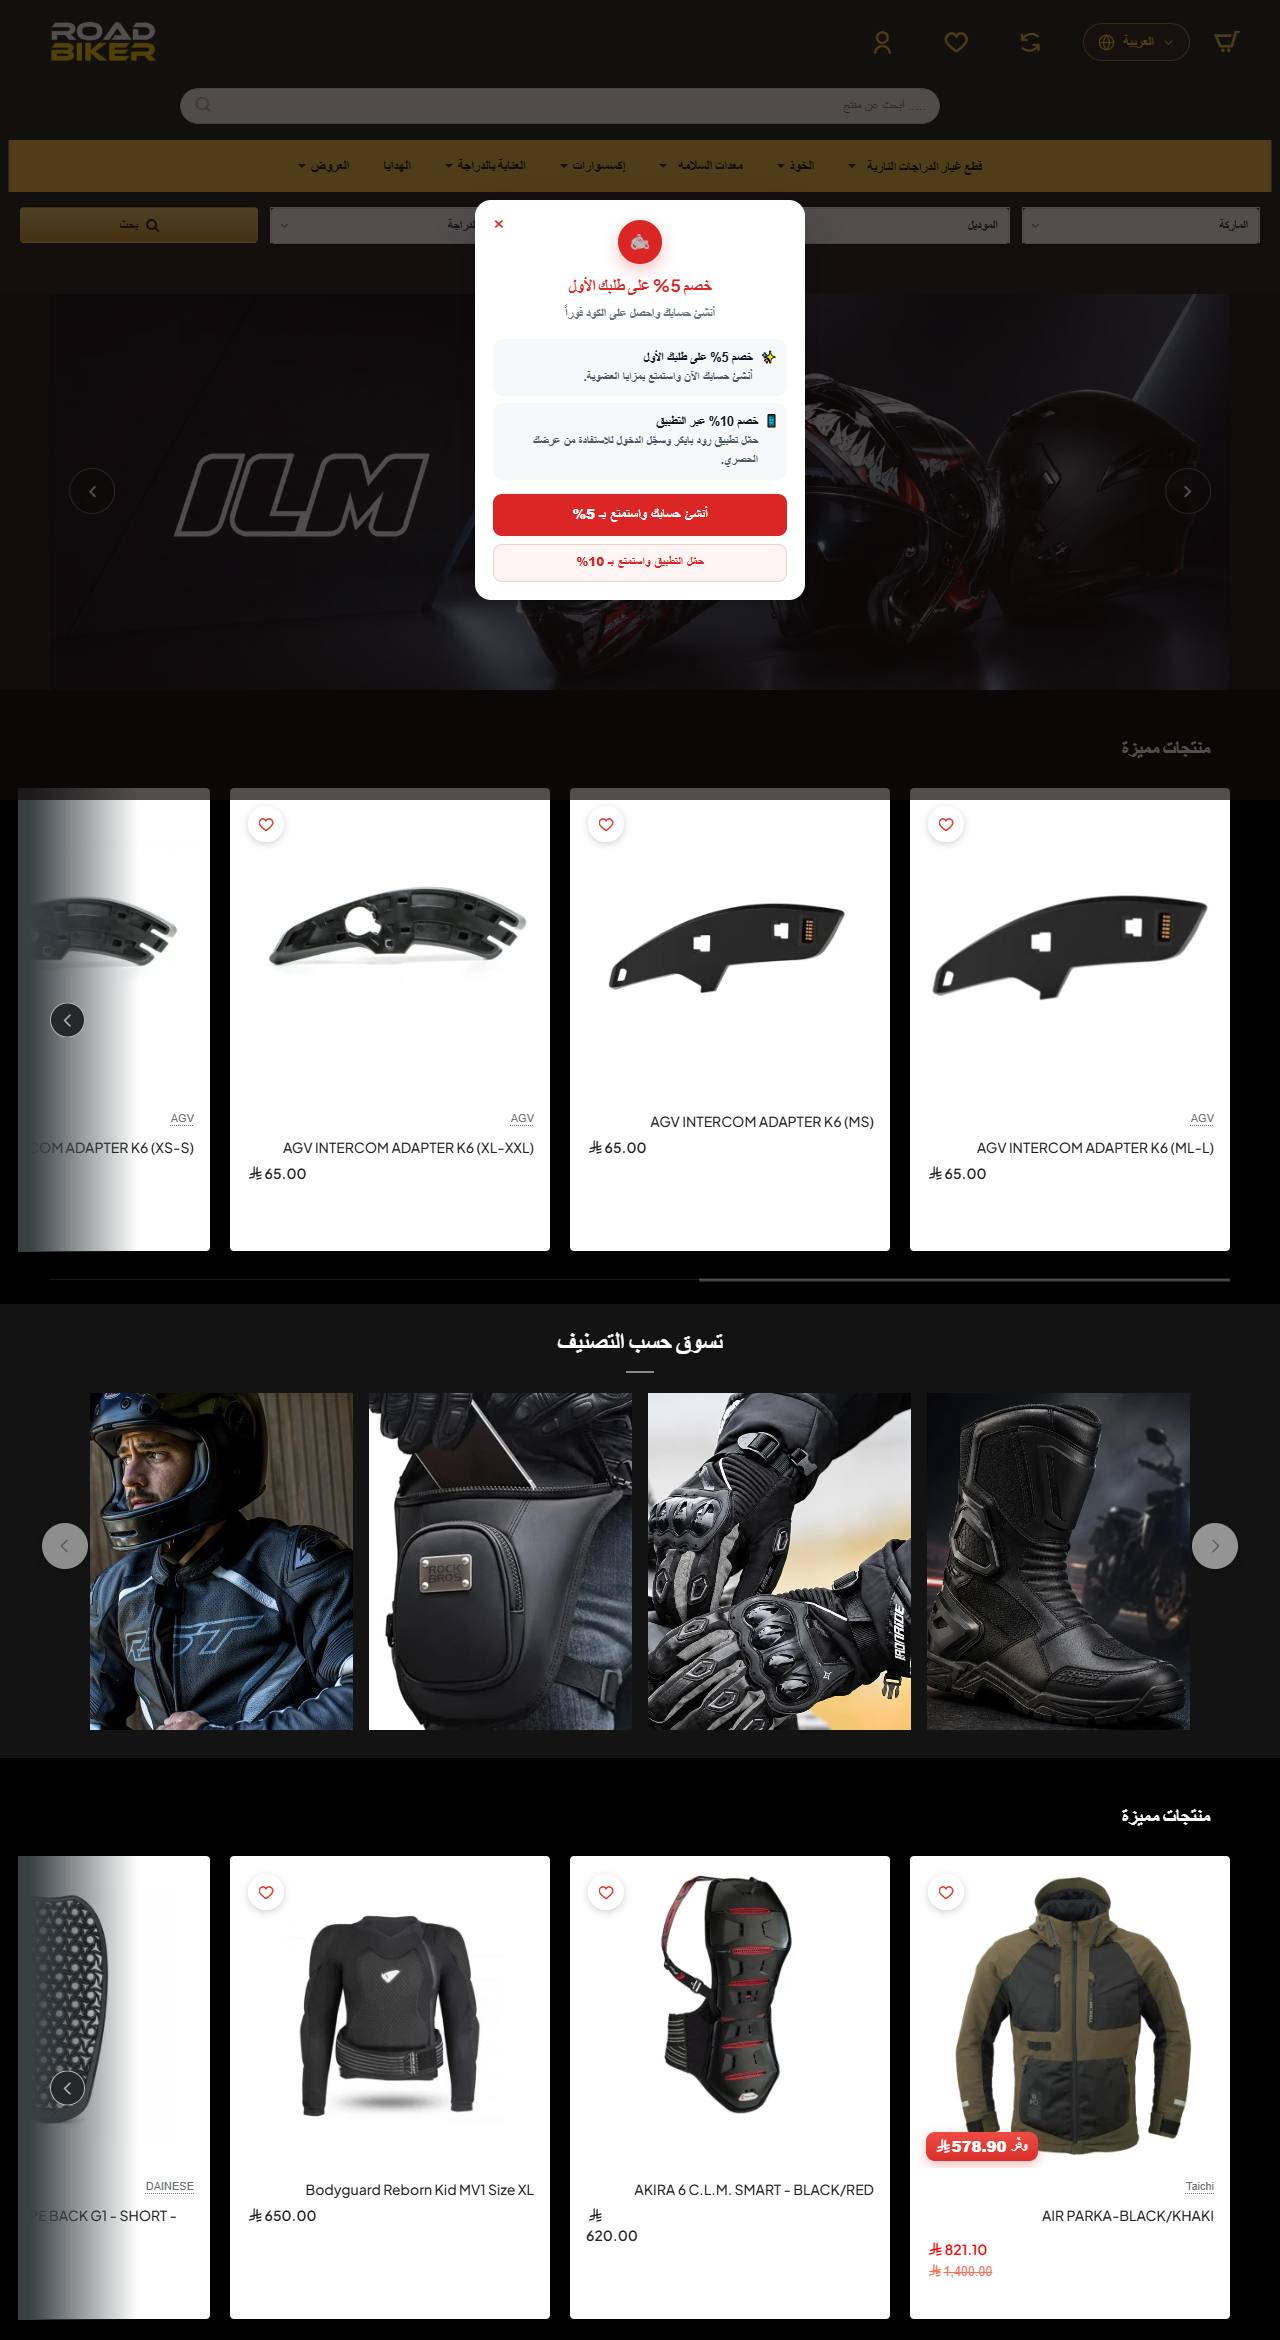
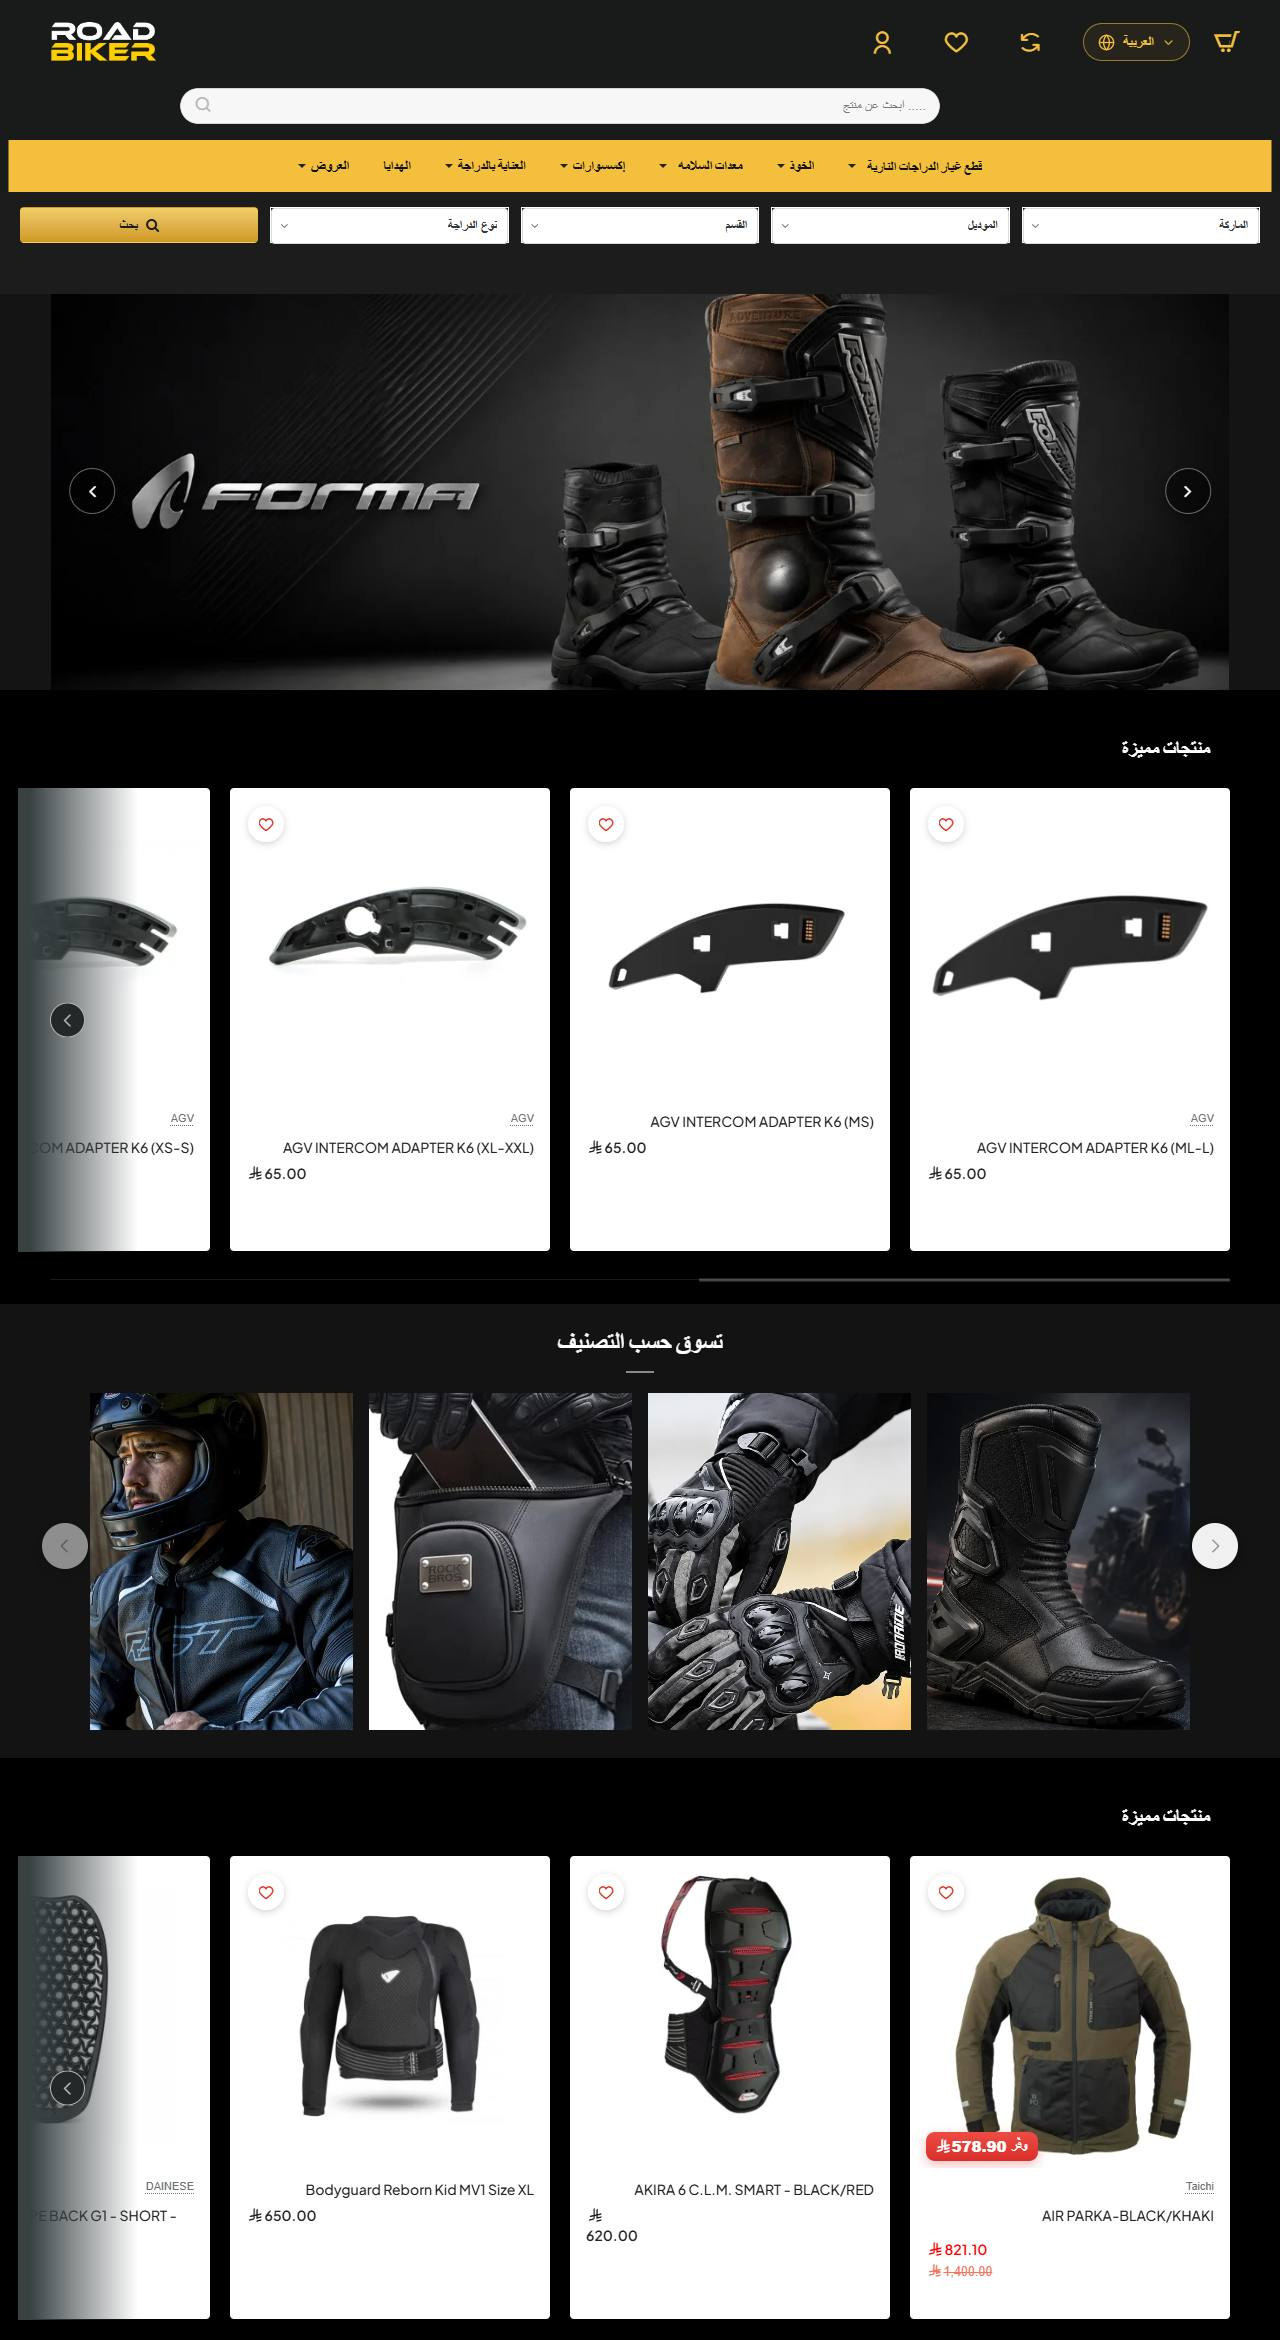
Add SEO crawler access, sitemap and llms.txt; clean Road Biker screenshot
- robots.txt welcomes all crawlers, plus 50 named: search engines, AI assistants,
  link-preview bots and SEO auditors; /api/ excluded; points to the sitemap
- sitemap.xml with the home page, CV and project images
- llms.txt: plain profile summary for AI assistants and AI search
- robots meta for large image previews and full snippets
- Road Biker case-study screenshot recaptured without the store's discount pop-up

diff --git a/pages/index.js b/pages/index.js
@@ -43,6 +43,13 @@ const Home = () => {
         <meta content="Mehboob Iqbal" name="author" />
         <meta content="width=device-width, initial-scale=1.0" name="viewport" />
         <meta content="#09090b" name="theme-color" />
+        <meta content="index, follow, max-image-preview:large, max-snippet:-1, max-video-preview:-1" name="robots" />
+        <link
+          href="/llms.txt"
+          rel="alternate"
+          title="Profile for AI assistants"
+          type="text/plain"
+        />
         <link href={SITE} rel="canonical" />
 
         {/* Link previews (LinkedIn, WhatsApp, Slack, email) */}
